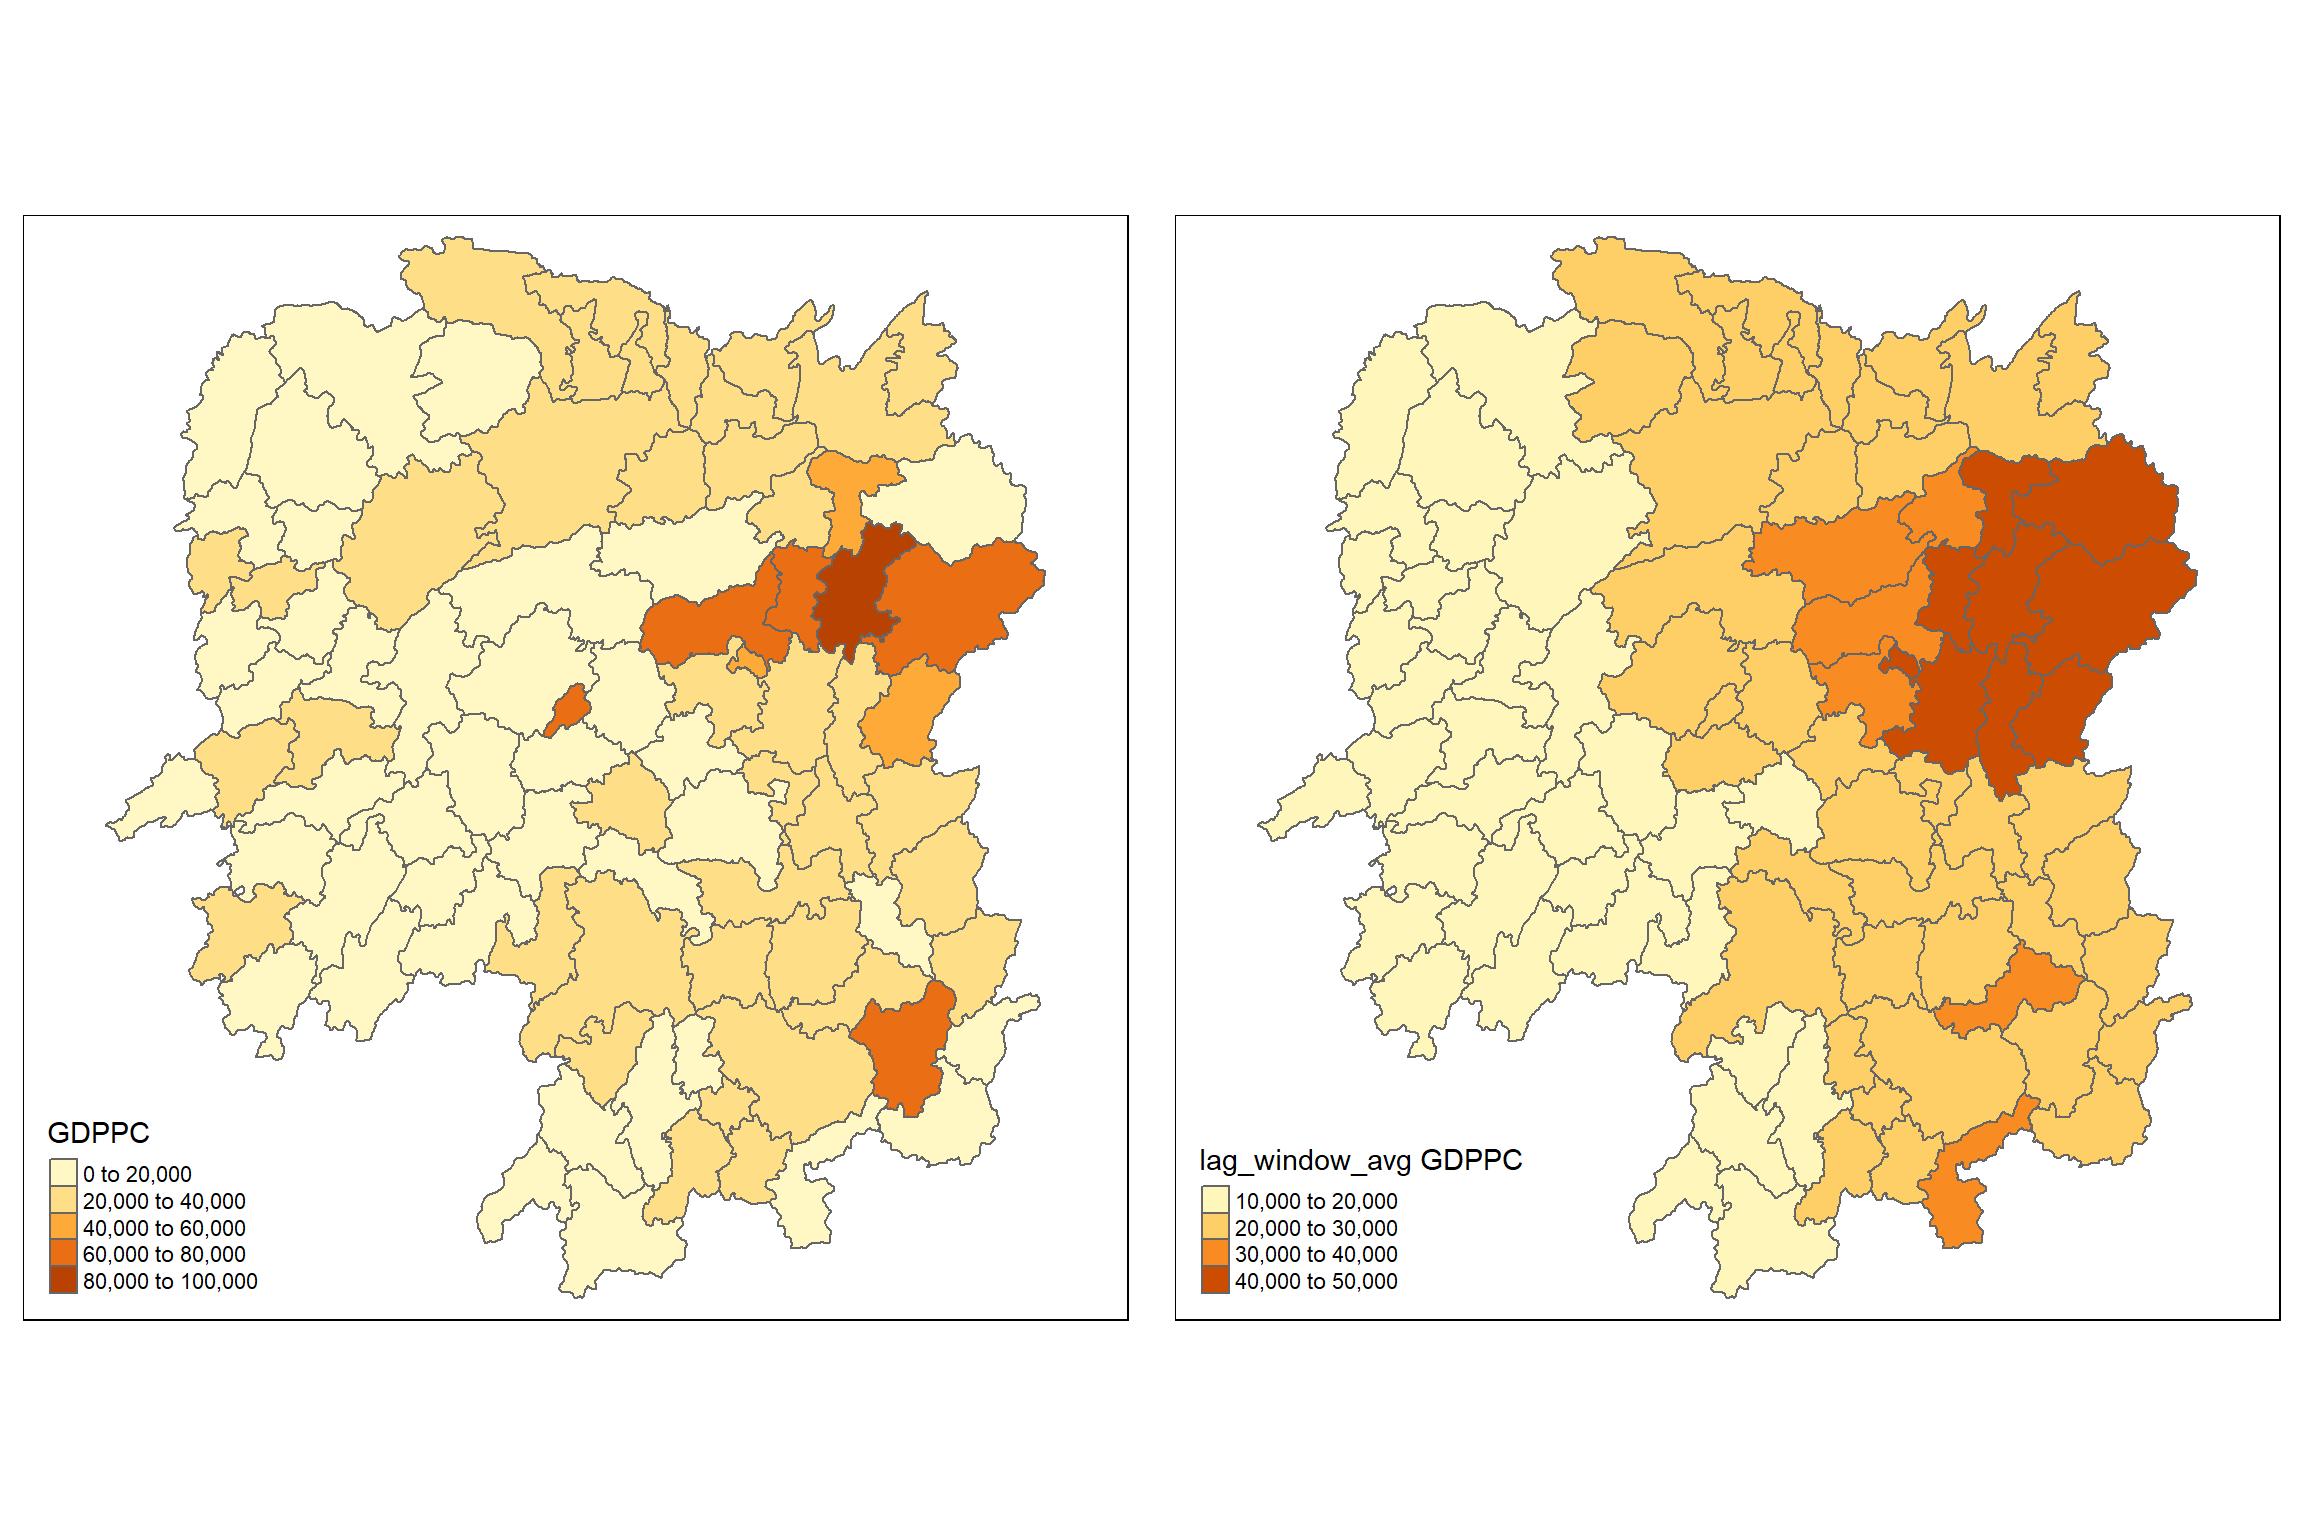
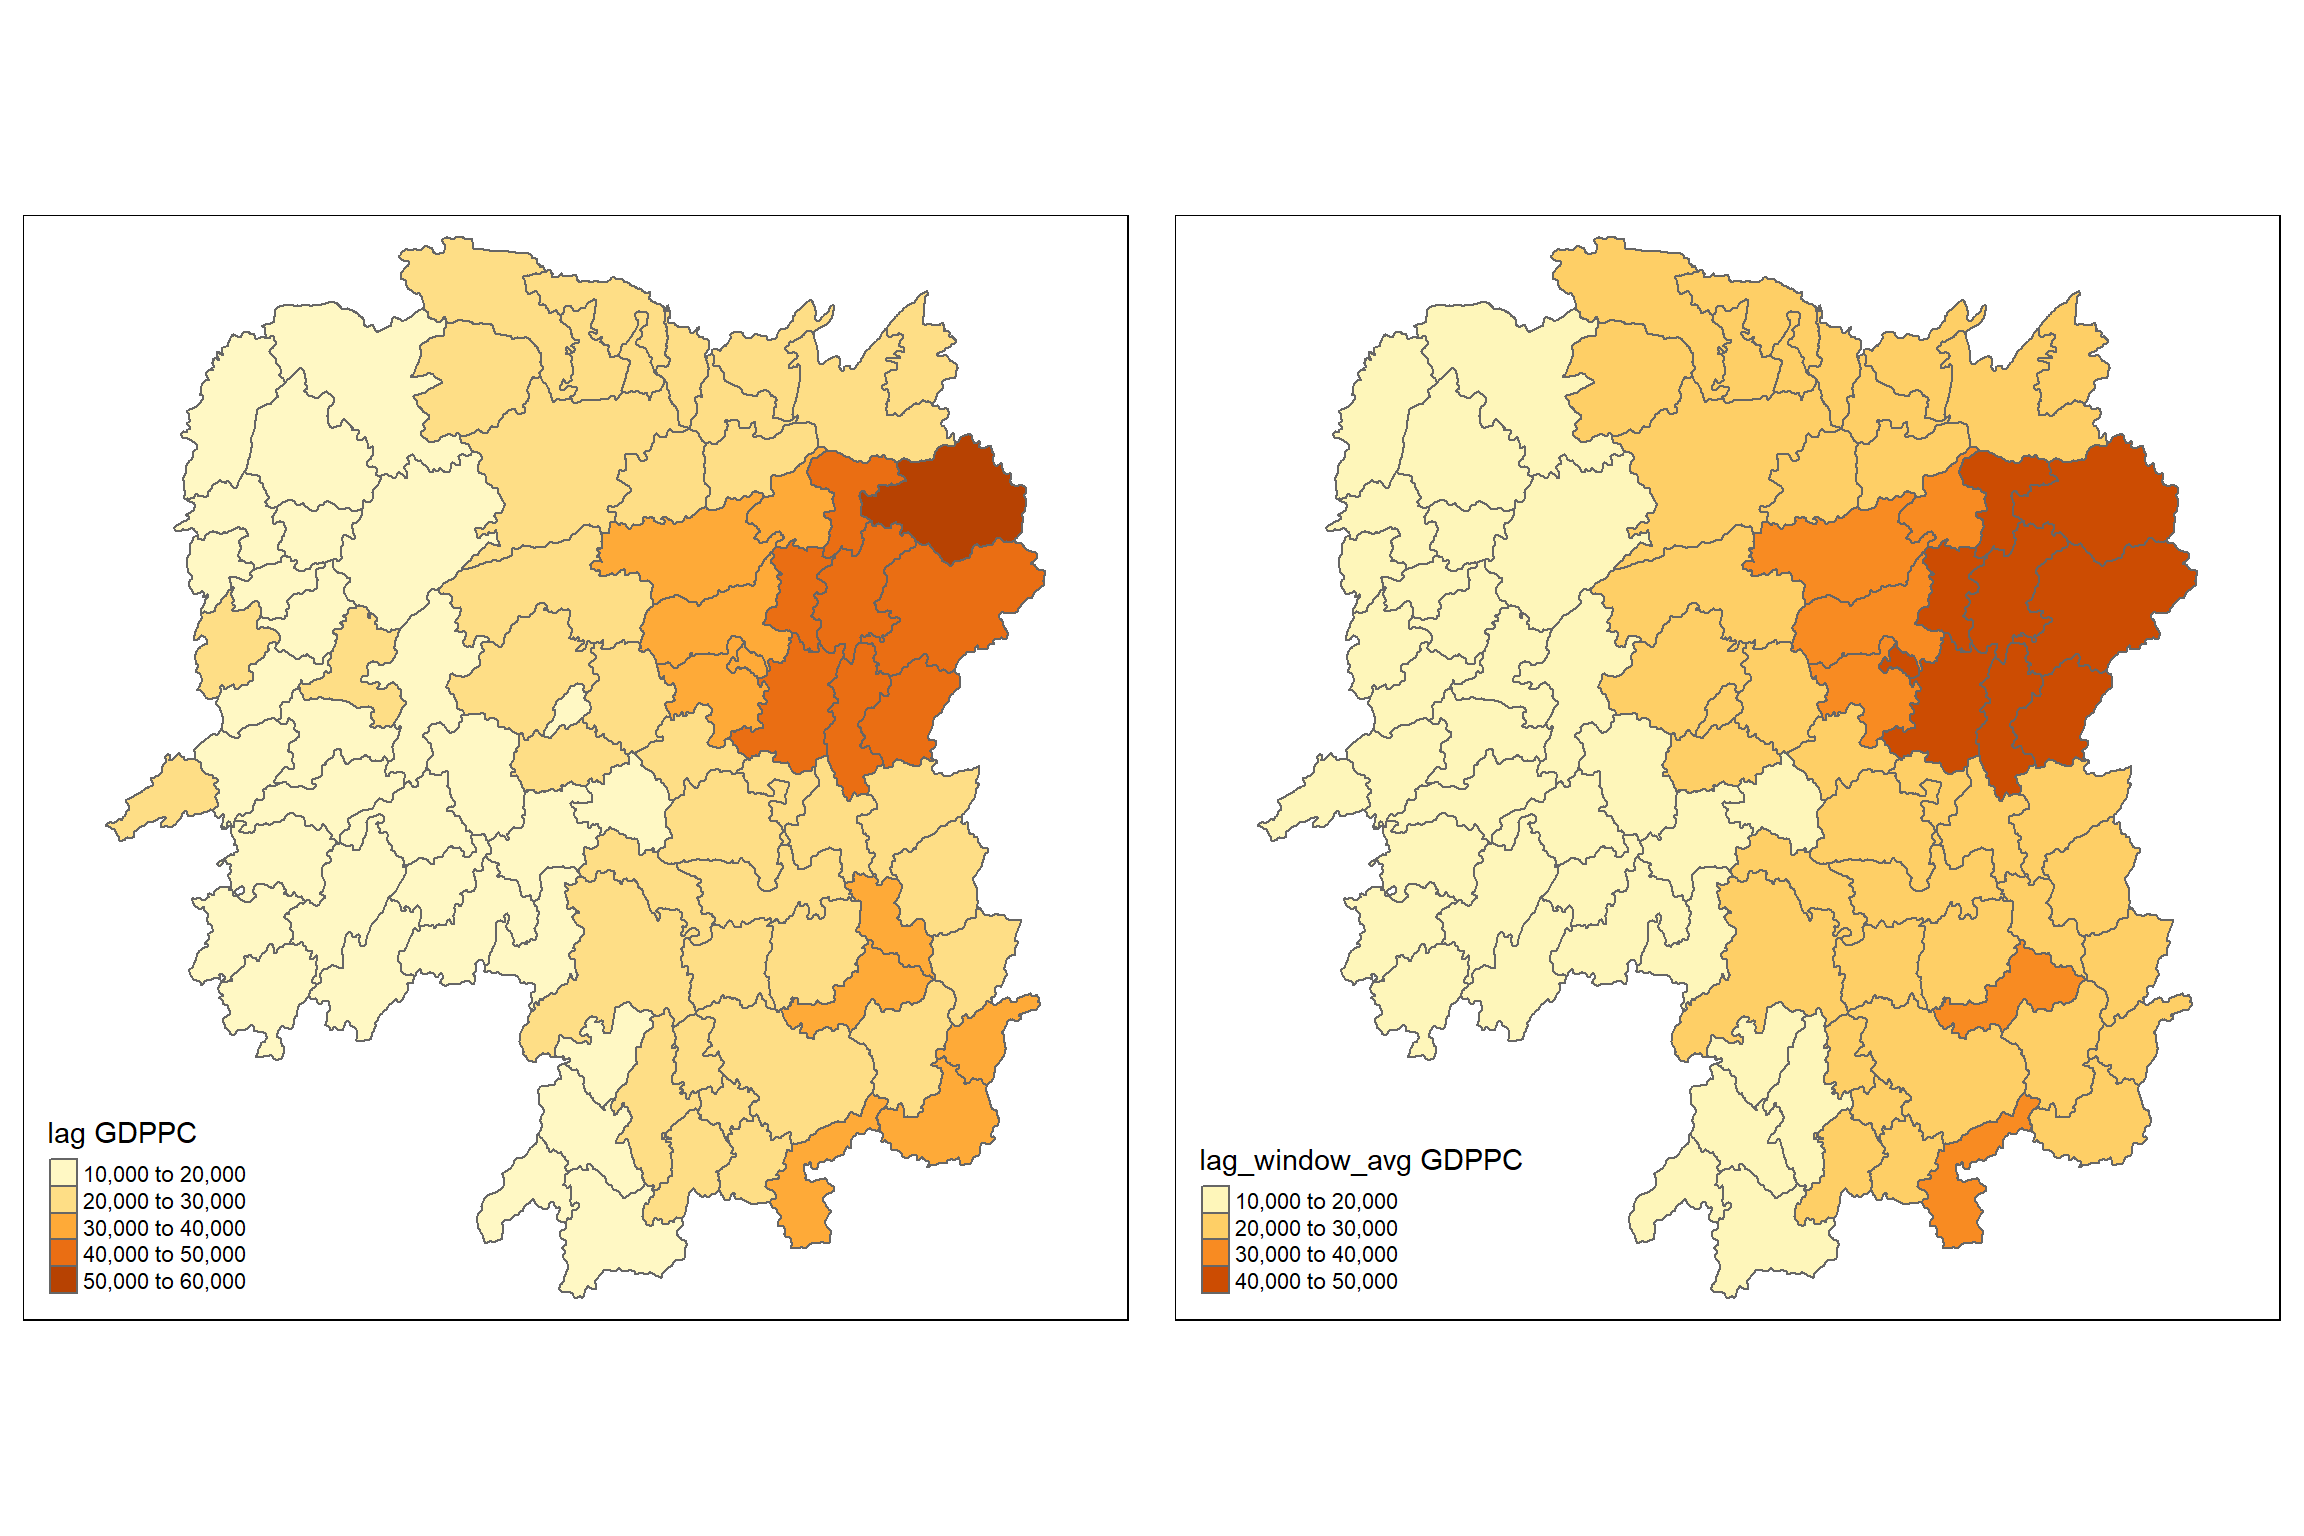
Commit 4th revision of Chapter 3

diff --git a/_book/chap03.html b/_book/chap03.html
@@ -2139,11 +2139,10 @@ W 88 7744 88 30.90265 357.5308</code></pre>
 </table>
 </div>
 </div>
-<p>Lastly, <em>qtm()</em> of <strong>tmap</strong> package is used to plot the GDPPC and lag_window_avg GDPPC map next to each other for quick comparison.</p>
+<p>Lastly, <em>qtm()</em> of <strong>tmap</strong> package is used to plot the lag_gdppc and w_ave_gdppc maps next to each other for quick comparison.</p>
 <div class="cell">
-<div class="sourceCode cell-code" id="cb85"><pre class="sourceCode r code-with-copy"><code class="sourceCode r"><span id="cb85-1"><a href="#cb85-1" aria-hidden="true" tabindex="-1"></a>gdppc <span class="ot">&lt;-</span> <span class="fu">qtm</span>(hunan, <span class="st">"GDPPC"</span>)</span>
-<span id="cb85-2"><a href="#cb85-2" aria-hidden="true" tabindex="-1"></a>w_avg_gdppc <span class="ot">&lt;-</span> <span class="fu">qtm</span>(hunan, <span class="st">"lag_window_avg GDPPC"</span>)</span>
-<span id="cb85-3"><a href="#cb85-3" aria-hidden="true" tabindex="-1"></a><span class="fu">tmap_arrange</span>(gdppc, w_avg_gdppc, <span class="at">asp=</span><span class="dv">1</span>, <span class="at">ncol=</span><span class="dv">2</span>)</span></code><button title="Copy to Clipboard" class="code-copy-button"><i class="bi"></i></button></pre></div>
+<div class="sourceCode cell-code" id="cb85"><pre class="sourceCode r code-with-copy"><code class="sourceCode r"><span id="cb85-1"><a href="#cb85-1" aria-hidden="true" tabindex="-1"></a>w_avg_gdppc <span class="ot">&lt;-</span> <span class="fu">qtm</span>(hunan, <span class="st">"lag_window_avg GDPPC"</span>)</span>
+<span id="cb85-2"><a href="#cb85-2" aria-hidden="true" tabindex="-1"></a><span class="fu">tmap_arrange</span>(lag_gdppc, w_avg_gdppc, <span class="at">asp=</span><span class="dv">1</span>, <span class="at">ncol=</span><span class="dv">2</span>)</span></code><button title="Copy to Clipboard" class="code-copy-button"><i class="bi"></i></button></pre></div>
 <div class="cell-output-display">
 <p><img src="chap03_files/figure-html/unnamed-chunk-54-1.png" class="img-fluid" width="1152"></p>
 </div>
@@ -2800,11 +2799,10 @@ B 88 7744 536 1072 14160</code></pre>
 </table>
 </div>
 </div>
-<p>Lastly, <em>qtm()</em> of <strong>tmap</strong> package is used to plot the GDPPC and lag_sum GDPPC map next to each other for quick comparison.</p>
+<p>Lastly, <em>qtm()</em> of <strong>tmap</strong> package is used to plot the lag_sum GDPPC and w_sum_gdppc maps next to each other for quick comparison.</p>
 <div class="cell">
-<div class="sourceCode cell-code" id="cb97"><pre class="sourceCode r code-with-copy"><code class="sourceCode r"><span id="cb97-1"><a href="#cb97-1" aria-hidden="true" tabindex="-1"></a>gdppc <span class="ot">&lt;-</span> <span class="fu">qtm</span>(hunan, <span class="st">"GDPPC"</span>)</span>
-<span id="cb97-2"><a href="#cb97-2" aria-hidden="true" tabindex="-1"></a>w_sum_gdppc <span class="ot">&lt;-</span> <span class="fu">qtm</span>(hunan, <span class="st">"w_sum GDPPC"</span>)</span>
-<span id="cb97-3"><a href="#cb97-3" aria-hidden="true" tabindex="-1"></a><span class="fu">tmap_arrange</span>(gdppc, w_sum_gdppc, <span class="at">asp=</span><span class="dv">1</span>, <span class="at">ncol=</span><span class="dv">2</span>)</span></code><button title="Copy to Clipboard" class="code-copy-button"><i class="bi"></i></button></pre></div>
+<div class="sourceCode cell-code" id="cb97"><pre class="sourceCode r code-with-copy"><code class="sourceCode r"><span id="cb97-1"><a href="#cb97-1" aria-hidden="true" tabindex="-1"></a>w_sum_gdppc <span class="ot">&lt;-</span> <span class="fu">qtm</span>(hunan, <span class="st">"w_sum GDPPC"</span>)</span>
+<span id="cb97-2"><a href="#cb97-2" aria-hidden="true" tabindex="-1"></a><span class="fu">tmap_arrange</span>(lag_sum_gdppc, w_sum_gdppc, <span class="at">asp=</span><span class="dv">1</span>, <span class="at">ncol=</span><span class="dv">2</span>)</span></code><button title="Copy to Clipboard" class="code-copy-button"><i class="bi"></i></button></pre></div>
 <div class="cell-output-display">
 <p><img src="chap03_files/figure-html/unnamed-chunk-62-1.png" class="img-fluid" width="1152"></p>
 </div>
